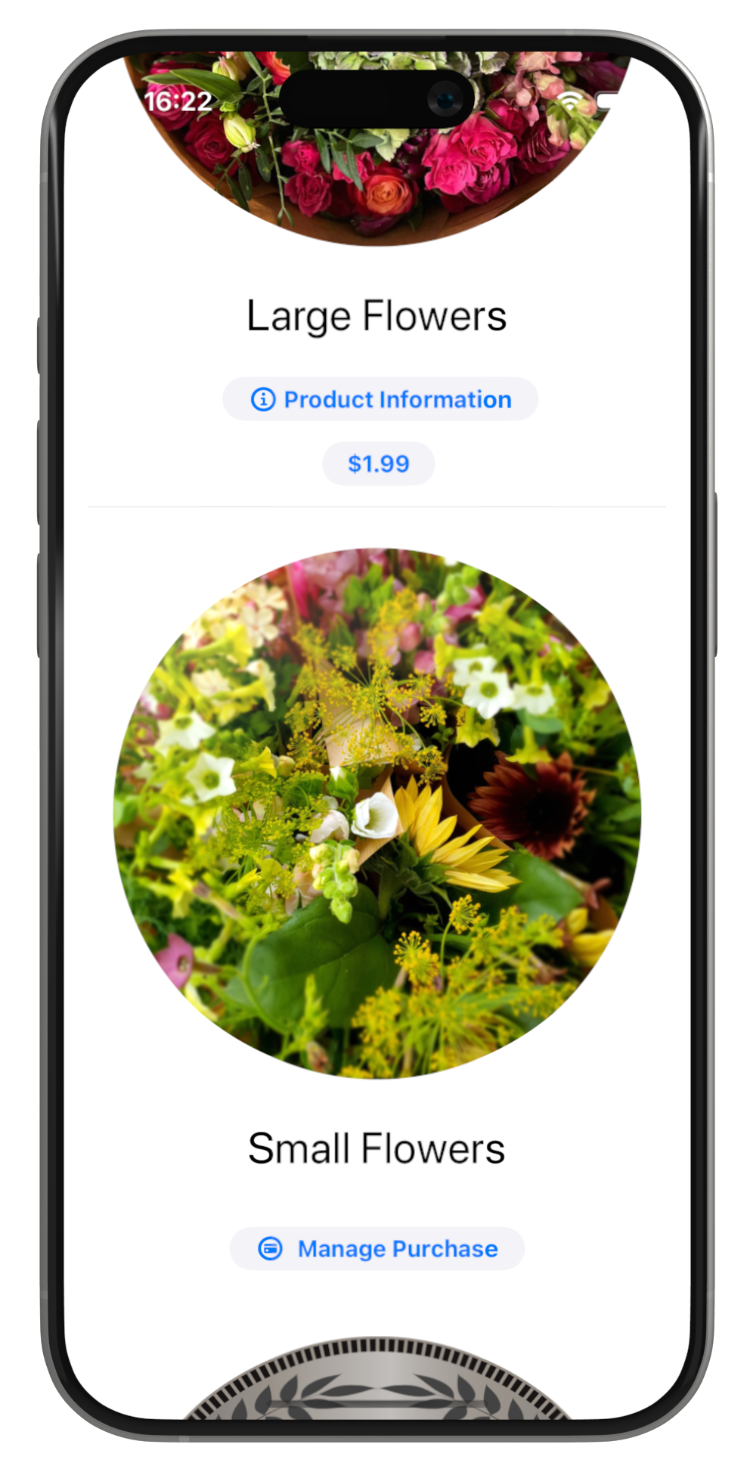
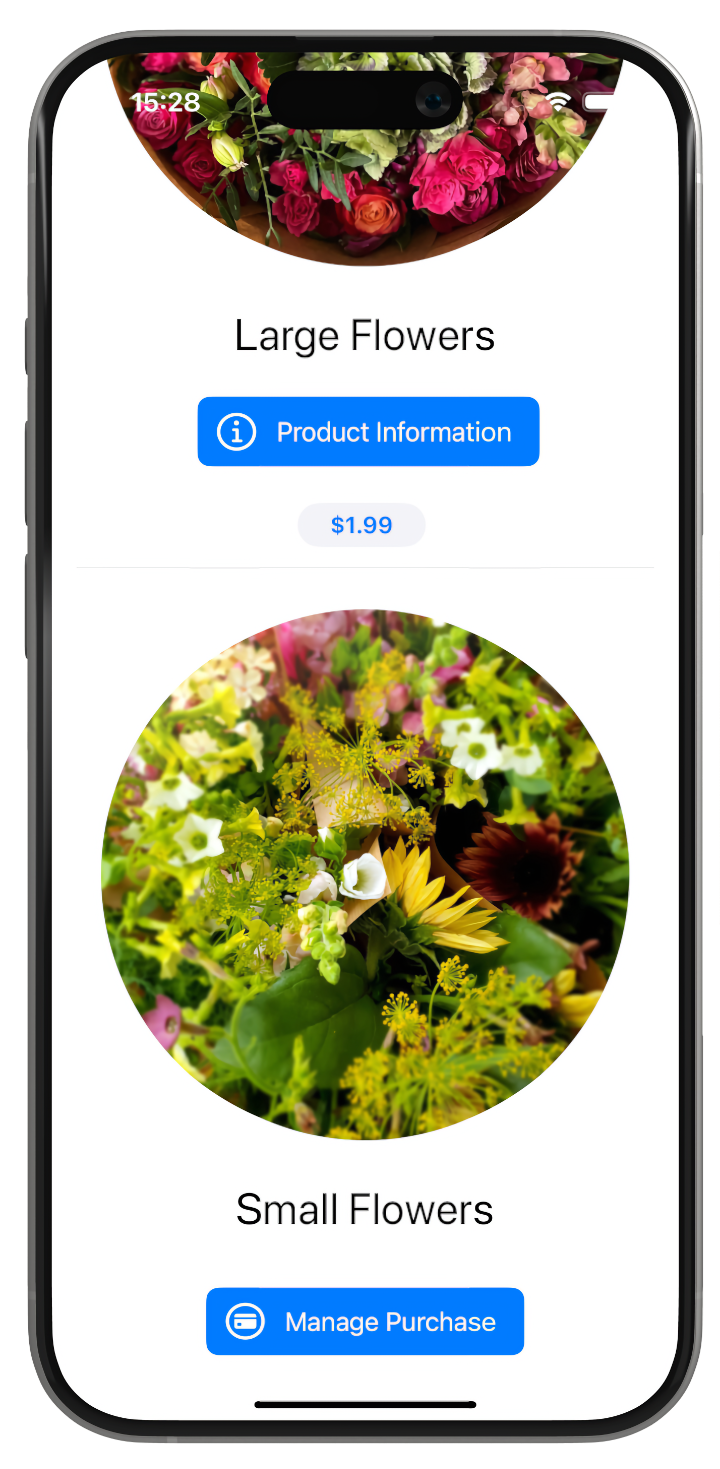
Enhances subscription management and display
Improves the subscription management flow by adding a selection sheet for multiple active subscriptions and displaying a management button on subscription store views.

Updates the product display name to "Unknown" when a product isn't found.

Documentation has been updated to reflect these changes.

diff --git a/Sources/SKHelper/Views/SKHelperSubscriptionStoreView.swift b/Sources/SKHelper/Views/SKHelperSubscriptionStoreView.swift
@@ -27,11 +27,21 @@ public struct SKHelperSubscriptionStoreView<Header: View, Control: View, Details
     /// The `ProductId` of the currently selected subscription.
     @State private var selectedProductId = ""
     
-    /// true if a subscription has been selected.
+    /// True if a subscription has been selected.
     @State private var subscriptionSelected = false
     
     /// True if the store has products.
     @State private var hasProducts = false
+    
+    /// Set to true to display the subscription info and management sheet.
+    @State private var manageSubscription = false
+    
+    /// Setting this value to true will display a sheet showing active subscriptions from which the user can choose. Used when the user
+    /// taps the "Manage Subscriptions" button and there is more than one currently active subscription.
+    @State private var showSubscriptionSelection = false
+    
+    /// Collection of all active subscriptions. Initialized when the user taps the "Manage Subscriptions" button.
+    @State private var allActiveSubscriptions = [ProductId]()
     
     /// The name of the subscription group from which to display subscriptions. If nil then we display all subscriptions in all groups.
     private var subscriptionGroupName: String?
@@ -76,7 +86,11 @@ public struct SKHelperSubscriptionStoreView<Header: View, Control: View, Details
         if hasProducts {
             ScrollView {
                 SubscriptionStoreView(subscriptions: subscriptions) {
-                    VStack { subscriptionHeader?() }.padding()
+                    VStack {
+                        subscriptionHeader?()
+                        managementSheetButton().padding(10)
+                    }
+                    .padding()
                 }
                 .subscriptionStoreButtonLabel(.action)
                 .subscriptionStoreControlStyle(.prominentPicker)
@@ -88,12 +102,17 @@ public struct SKHelperSubscriptionStoreView<Header: View, Control: View, Details
                 .subscriptionStorePolicyDestination(url: URL(string: "https://russell-archer.github.io/Writerly/privacy/")!, for: .privacyPolicy)
                 .subscriptionStorePolicyDestination(url: URL(string: "https://www.apple.com/legal/internet-services/itunes/dev/stdeula/")!, for: .termsOfService)
                 .subscriptionStoreControlIcon { subscription, info in
-                    
                     if let subscriptionControl { subscriptionControl(subscription.id).SKHelperOnTapGesture(perform: tapAction(subscription: subscription)) }
                     else { defaultSubscriptionControl(productId: subscription.id).SKHelperOnTapGesture(perform: tapAction(subscription: subscription)) }
                 }
                 .sheet(isPresented: $subscriptionSelected) {
                     SKHelperProductView(selectedProductId: $selectedProductId, showProductInfoSheet: $subscriptionSelected, productDetails: subscriptionDetails)
+                }
+                .sheet(isPresented: $manageSubscription) {
+                    SKHelperManagePurchaseView(selectedProductId: $selectedProductId, showPurchaseInfoSheet: $manageSubscription)
+                }
+                .sheet(isPresented: $showSubscriptionSelection) {
+                    subscriptionSelection()
                 }
             }
         } else {
@@ -104,7 +123,7 @@ public struct SKHelperSubscriptionStoreView<Header: View, Control: View, Details
                 ProgressView()
             }
             .padding()
-            .onProductsAvailable { _  in
+            .onProductsAvailable { _ in
                 // This view modifier is called when localized product information becomes available
                 hasProducts = store.hasAutoRenewableSubscriptionProducts
             }
@@ -125,6 +144,37 @@ public struct SKHelperSubscriptionStoreView<Header: View, Control: View, Details
         {
             selectedProductId = subscription.id
             subscriptionSelected.toggle()
+        }
+    }
+    
+    func managementSheetButton() -> some View {
+        Button(action: { showSubscriptionSelection.toggle() }) {
+            Label(title: { Text("Manage Subscriptions").padding()},
+                  icon:  { Image(systemName: "creditcard.circle").resizable().scaledToFit().frame(height: 24)})
+        }
+        .SKHelperButtonStyleBorderedProminent()
+    }
+    
+    func subscriptionSelection() -> some View {
+        return VStack {
+            Text("Select the currently active subscription you want to manage.").padding()
+            List(allActiveSubscriptions, id: \.self) { productId in
+                Text(store.productDisplayName(from: productId))
+                    .SKHelperOnTapGesture { showSubManagement(productId: productId) }.padding(5)
+            }
+            .task {
+                allActiveSubscriptions = await store.allActiveSubscriptions()
+                if allActiveSubscriptions.count == 1 { showSubManagement(productId: allActiveSubscriptions.first!) }
+            }
+            .padding()
+        }
+        .presentationDetents([.medium, .large])
+        .padding()
+        
+        func showSubManagement(productId: ProductId) {
+            selectedProductId = productId
+            manageSubscription = true
+            showSubscriptionSelection = false
         }
     }
 }
@@ -167,13 +217,6 @@ extension SKHelperSubscriptionStoreView {
                 Text("Our top-rated serices will make your plants happy").font(.headline)
             }
         },
-        subscriptionControl: { productId in
-            
-            VStack {
-                Image(productId).resizable().scaledToFit()
-                Text("A florist will call \(productId == "com.rarcher.subscription.vip.gold" ? "weekly" : "monthly") to water your plants.").font(.caption2)
-            }
-        },
         subscriptionDetails: { productId in
             
             VStack {
@@ -183,3 +226,4 @@ extension SKHelperSubscriptionStoreView {
         })
     .environment(SKHelper())
 }
+

diff --git a/Sources/SKHelper/Documentation.docc/Resources/code/quickstart-contentview5.swift b/Sources/SKHelper/Documentation.docc/Resources/code/quickstart-contentview5.swift
@@ -5,16 +5,27 @@ struct ContentView: View {
     @Environment(SKHelper.self) private var store
     
     var body: some View {
-        NavigationStack {
-            List {
-                :
-                :
-                
-                // Show all purchases the user has made.
-                NavigationLink("List all purchases") {
-                    SKHelperPurchasesView()
-                }
-            }
+        VStack {
+            
+            SKHelperSubscriptionStoreView(
+                subscriptionGroupName: "vip",
+                subscriptionHeader: { header() },
+                subscriptionDetails: { productId in details(productId: productId) })
         }
+    }
+    
+    func header() -> some View {
+        VStack {
+            Image("plant-services").resizable().scaledToFit()
+            Text("Our top-rated services will make your plants happy").font(.headline)
+        }
+    }
+    
+    func details(productId: ProductId) -> some View {
+        VStack {
+            Image("\(productId).info").resizable().scaledToFit()
+            Text("Here is some text about why you might want to buy this product.")
+        }
+        .padding()
     }
 }

diff --git a/Sources/SKHelper/Core/SKHelper.swift b/Sources/SKHelper/Core/SKHelper.swift
@@ -369,6 +369,19 @@ public class SKHelper: Observable {
         return result
     }
     
+    /// Gets a collection of `ProductId` for all currently active subscriptions in all subscription groups.
+    /// - Returns: Returns a collection of `ProductId` for all currently active subscriptions in all subscription groups.
+    public func allActiveSubscriptions() async -> [ProductId] {
+        var activeSubscriptions = [ProductId]()
+        
+        for sub in allAutoRenewableSubscriptionProductIds {
+            let state = await isSubscribed(productId: sub)
+            if state == .subscribed { activeSubscriptions.append(sub) }
+        }
+        
+        return activeSubscriptions
+    }
+    
     /// Return the highest service level auto-renewing subscription the user is subscribed to in the `subscriptionGroup`.
     /// - Parameter groupName: The name of the subscription group.
     /// - Returns: Returns the `Product` for the highest service level auto-renewing subscription the user is subscribed to in the `subscriptionGroup`, or nil if the user isn't subscribed to a product in the group.

diff --git a/Sources/SKHelper/Views/SKHelperManagePurchaseView.swift b/Sources/SKHelper/Views/SKHelperManagePurchaseView.swift
@@ -94,8 +94,8 @@ public struct SKHelperManagePurchaseView: View {
                     
                 } else if let subscriptionPurchaseInfo {
                     
-                    SKHelperSubscriptionInfoMain(subInfo: subscriptionPurchaseInfo)
                     SKHelperSubscriptionInfoManage(showManageSubscriptionsSheet: $showManageSubscriptionsSheet)
+                    SKHelperSubscriptionInfoMain(subInfo: subscriptionPurchaseInfo)
                     
                 } else {
                     
@@ -145,7 +145,7 @@ public struct SKHelperManagePurchaseView: View {
             nonConsumablePurchaseInfo = await store.nonConsumablePurchaseInformation(for: selectedProductId)
             productType = .nonConsumable
             viewTitle = nonConsumablePurchaseInfo?.name ?? "Purchase Info"
-            
+
         } else if store.isAutoRenewableSubscription(productId: selectedProductId) {
             
             subscriptionPurchaseInfo = await store.subscriptionInformation(for: selectedProductId)

diff --git a/Sources/SKHelper/Views/SKHelperStoreView.swift b/Sources/SKHelper/Views/SKHelperStoreView.swift
@@ -112,8 +112,6 @@ public struct SKHelperStoreView<Content: View>: View {
         }
     }
     
-    // TODO: BUG: When showing mixed purchased and unpurchased products the 'Manage Purchase' and 'Product Info" buttons don't always trigger the correct action
-    
     private func bodyWithAutomaticStyle() -> some View {
         SKHelperStoreViewBody(selectedProductId: $selectedProductId,
                               productSelected: $productSelected,
@@ -121,7 +119,7 @@ public struct SKHelperStoreView<Content: View>: View {
                               managePurchase: $managePurchase,
                               products: products,
                               productDetails: productDetails)
-            .productViewStyle(.automatic)
+        .productViewStyle(.automatic)
     }
     
     private func bodyWithManagementStyle() -> some View {

diff --git a/Sources/SKHelper/Core/SKHelper+Extensions.swift b/Sources/SKHelper/Core/SKHelper+Extensions.swift
@@ -100,7 +100,7 @@ public extension SKHelper {
     /// - Returns: Returns the display name of the first `Product` in `SKHelper.products` whose `id` matches the supplied `ProductId`., or an empty `String` if no match is found.
     ///
     func productDisplayName(from productId: ProductId) -> String {
-        products.first(where: { $0.id == productId })?.product.displayName ?? ""
+        products.first(where: { $0.id == productId })?.product.displayName ?? "Unknown"
     }
     
     /// The products in `SKHelper.products` whose ids match the supplied [`ProductId`].
